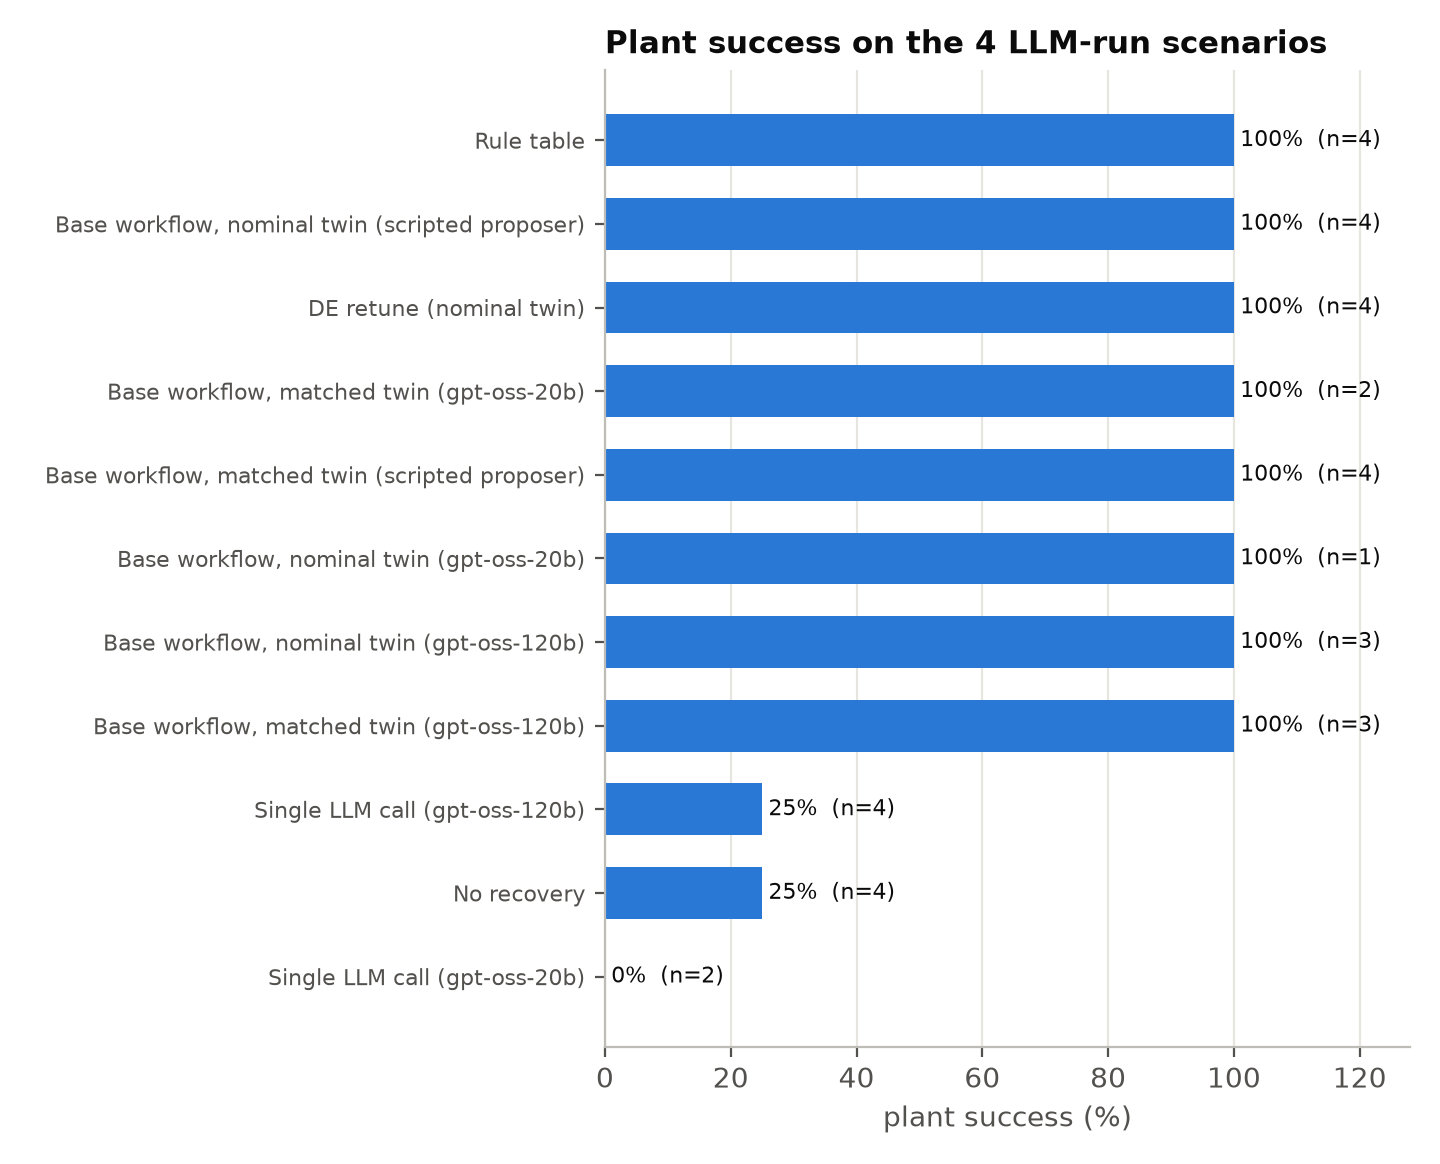
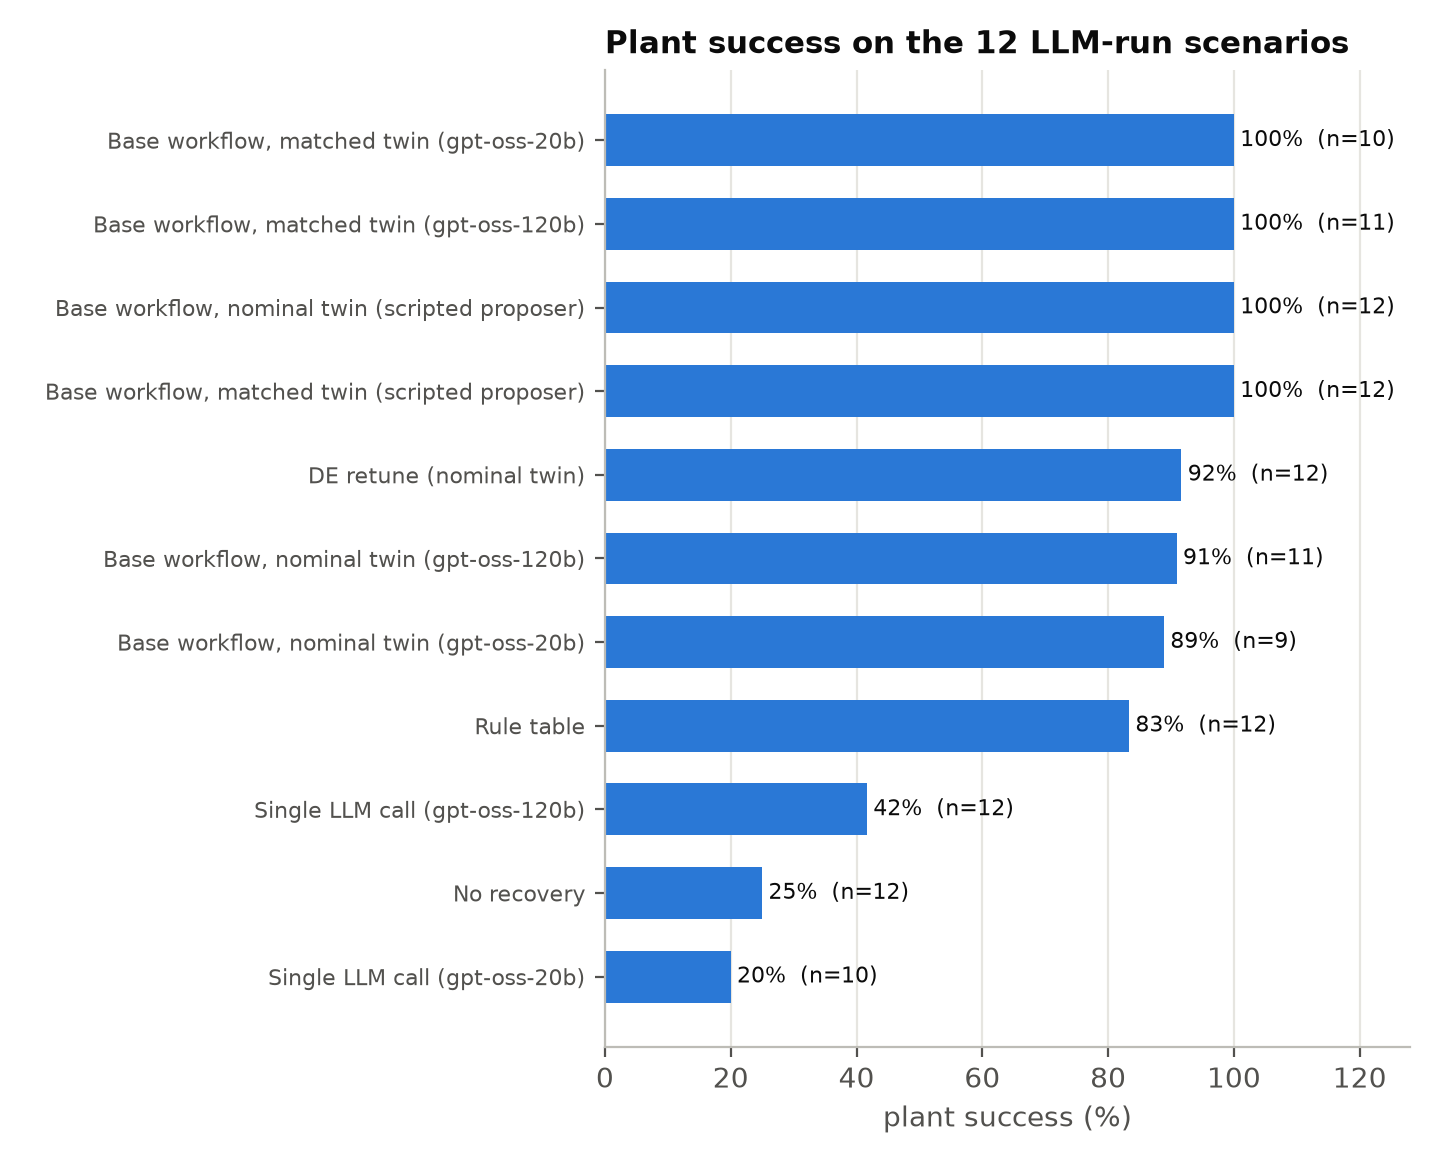
Refresh Phase-1 results figures and tables with the core LLM runs

diff --git a/docs/results/phase1_results.md b/docs/results/phase1_results.md
@@ -23,59 +23,59 @@
 
 
 
-## Run `phase1_llm_gptoss120b` (4 scenarios)
+## Run `phase1_llm_gptoss120b` (12 scenarios)
 
 | method_label                             |   episodes |   agent_success_% |   plant_success_% |   validated_but_failed_% |   safety_violation_% |   fallback_% |   mean_reprompts |   setpoint_retention |   mean_llm_calls |   mean_tokens_in |   mean_llm_latency_s |
 |:-----------------------------------------|-----------:|------------------:|------------------:|-------------------------:|---------------------:|-------------:|-----------------:|---------------------:|-----------------:|-----------------:|---------------------:|
-| base_agent_matched [openai/gpt-oss-120b] |          3 |              66.7 |               100 |                        0 |                    0 |         33.3 |             2.67 |                0.947 |             4.67 |            10539 |                 7.3  |
-| base_agent_nominal [openai/gpt-oss-120b] |          3 |              33.3 |               100 |                        0 |                    0 |         66.7 |             3.67 |                0.917 |             5.67 |            13243 |                10.31 |
-| single_llm [openai/gpt-oss-120b]         |          4 |             100   |                25 |                       75 |                    0 |          0   |             0    |                0.975 |             1    |             1560 |                 1.74 |
+| base_agent_matched [openai/gpt-oss-120b] |         11 |              63.6 |             100   |                      0   |                    0 |         36.4 |             2.36 |                0.905 |             4.36 |             9884 |                 6.31 |
+| base_agent_nominal [openai/gpt-oss-120b] |         11 |              72.7 |              90.9 |                      0   |                    0 |         27.3 |             2.73 |                0.915 |             4.73 |            10684 |                 7.08 |
+| single_llm [openai/gpt-oss-120b]         |         12 |             100   |              41.7 |                     58.3 |                    0 |          0   |             0    |                0.983 |             1    |             1544 |                 1.4  |
 
 
 **Plant success % by fault**
 
-| method_label                             |   heater_degradation |
-|:-----------------------------------------|---------------------:|
-| base_agent_matched [openai/gpt-oss-120b] |                  100 |
-| base_agent_nominal [openai/gpt-oss-120b] |                  100 |
-| single_llm [openai/gpt-oss-120b]         |                   25 |
+| method_label                             |   actuator_stuck_high |   heat_loss_increase |   heater_degradation |   local_insulation_loss |   sensor_bias |
+|:-----------------------------------------|----------------------:|---------------------:|---------------------:|------------------------:|--------------:|
+| base_agent_matched [openai/gpt-oss-120b] |                   100 |                  100 |                  100 |                     100 |           100 |
+| base_agent_nominal [openai/gpt-oss-120b] |                   100 |                  100 |                  100 |                     100 |            50 |
+| single_llm [openai/gpt-oss-120b]         |                   100 |                    0 |                   25 |                       0 |           100 |
 
 
 **Plant success % by mismatch**
 
 | method_label                             |   0.0 |   0.2 |
 |:-----------------------------------------|------:|------:|
-| base_agent_matched [openai/gpt-oss-120b] |   100 |   100 |
-| base_agent_nominal [openai/gpt-oss-120b] |   100 |   100 |
-| single_llm [openai/gpt-oss-120b]         |     0 |    50 |
+| base_agent_matched [openai/gpt-oss-120b] | 100   |   100 |
+| base_agent_nominal [openai/gpt-oss-120b] |  83.3 |   100 |
+| single_llm [openai/gpt-oss-120b]         |  33.3 |    50 |
 
 
 
-## Run `phase1_llm_gptoss20b` (2 scenarios)
+## Run `phase1_llm_gptoss20b` (10 scenarios)
 
 | method_label                            |   episodes |   agent_success_% |   plant_success_% |   validated_but_failed_% |   safety_violation_% |   fallback_% |   mean_reprompts |   setpoint_retention |   mean_llm_calls |   mean_tokens_in |   mean_llm_latency_s |
 |:----------------------------------------|-----------:|------------------:|------------------:|-------------------------:|---------------------:|-------------:|-----------------:|---------------------:|-----------------:|-----------------:|---------------------:|
-| base_agent_matched [openai/gpt-oss-20b] |          2 |                50 |               100 |                        0 |                    0 |           50 |                4 |                0.905 |                6 |            12760 |                 5.59 |
-| base_agent_nominal [openai/gpt-oss-20b] |          1 |                 0 |               100 |                        0 |                    0 |          100 |                5 |                0.9   |                7 |            15550 |                 9.46 |
-| single_llm [openai/gpt-oss-20b]         |          2 |               100 |                 0 |                      100 |                    0 |            0 |                0 |                0.975 |                1 |             1560 |                 1.16 |
+| base_agent_matched [openai/gpt-oss-20b] |         10 |              60   |             100   |                        0 |                    0 |         40   |             3.3  |                0.886 |             5.3  |            11986 |                 5.03 |
+| base_agent_nominal [openai/gpt-oss-20b] |          9 |              55.6 |              88.9 |                        0 |                    0 |         44.4 |             3.22 |                0.88  |             5.22 |            11301 |                 4.76 |
+| single_llm [openai/gpt-oss-20b]         |         10 |             100   |              20   |                       80 |                   20 |          0   |             0    |                0.99  |             1    |             1540 |                 0.97 |
 
 
 **Plant success % by fault**
 
-| method_label                            |   heater_degradation |
-|:----------------------------------------|---------------------:|
-| base_agent_matched [openai/gpt-oss-20b] |                  100 |
-| base_agent_nominal [openai/gpt-oss-20b] |                  100 |
-| single_llm [openai/gpt-oss-20b]         |                    0 |
+| method_label                            |   actuator_stuck_high |   heat_loss_increase |   heater_degradation |   local_insulation_loss |   sensor_bias |
+|:----------------------------------------|----------------------:|---------------------:|---------------------:|------------------------:|--------------:|
+| base_agent_matched [openai/gpt-oss-20b] |                   100 |                  100 |                100   |                     100 |           100 |
+| base_agent_nominal [openai/gpt-oss-20b] |                   100 |                  100 |                100   |                     100 |            50 |
+| single_llm [openai/gpt-oss-20b]         |                   100 |                    0 |                 33.3 |                       0 |             0 |
 
 
 **Plant success % by mismatch**
 
-| method_label                            |   0.0 |
-|:----------------------------------------|------:|
-| base_agent_matched [openai/gpt-oss-20b] |   100 |
-| base_agent_nominal [openai/gpt-oss-20b] |   100 |
-| single_llm [openai/gpt-oss-20b]         |     0 |
+| method_label                            |   0.0 |   0.2 |
+|:----------------------------------------|------:|------:|
+| base_agent_matched [openai/gpt-oss-20b] |   100 |   100 |
+| base_agent_nominal [openai/gpt-oss-20b] |    75 |   100 |
+| single_llm [openai/gpt-oss-20b]         |     0 |    40 |
 
 
 
